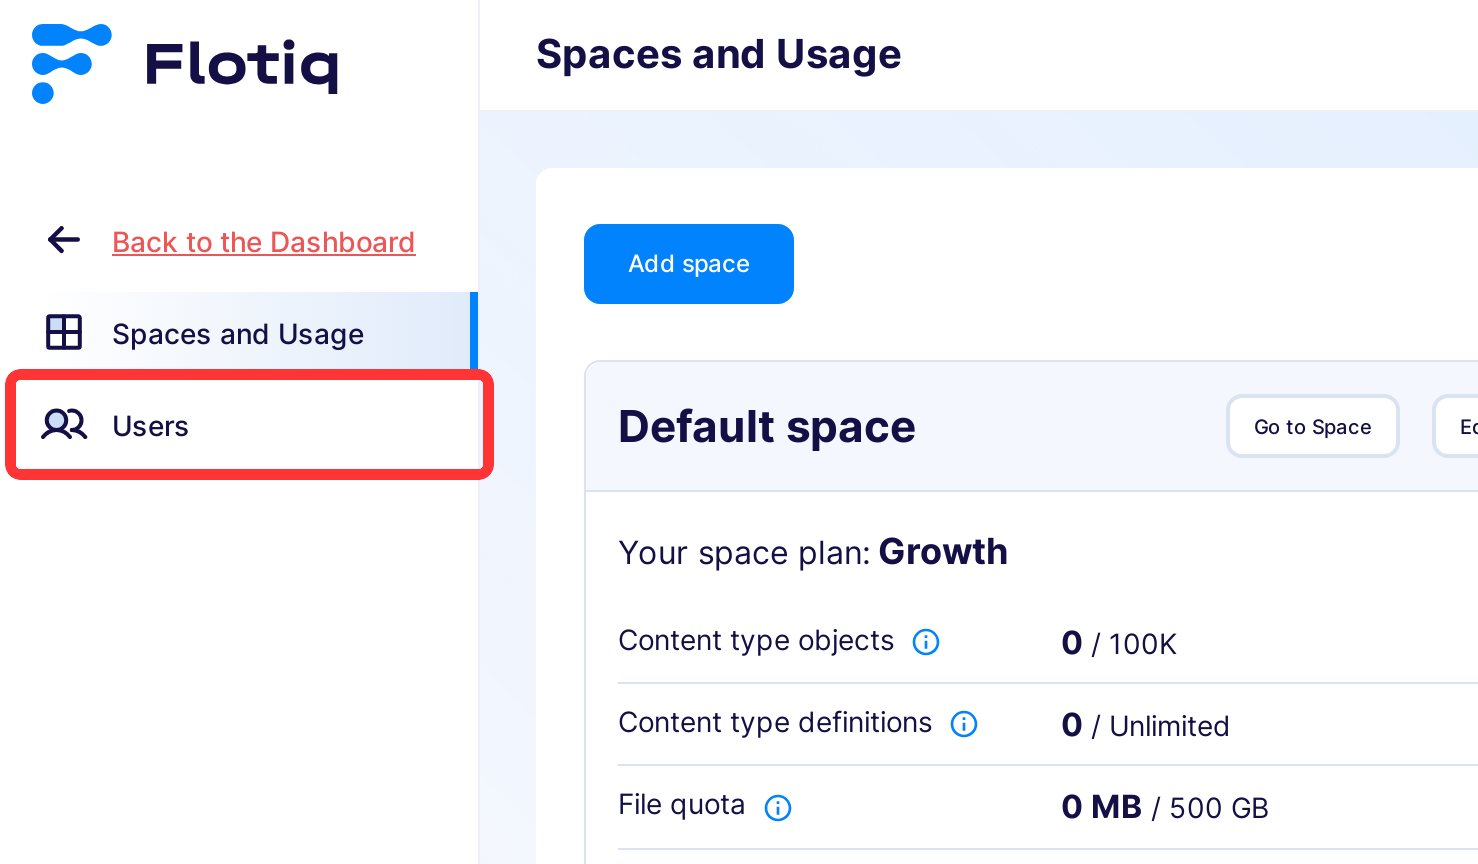
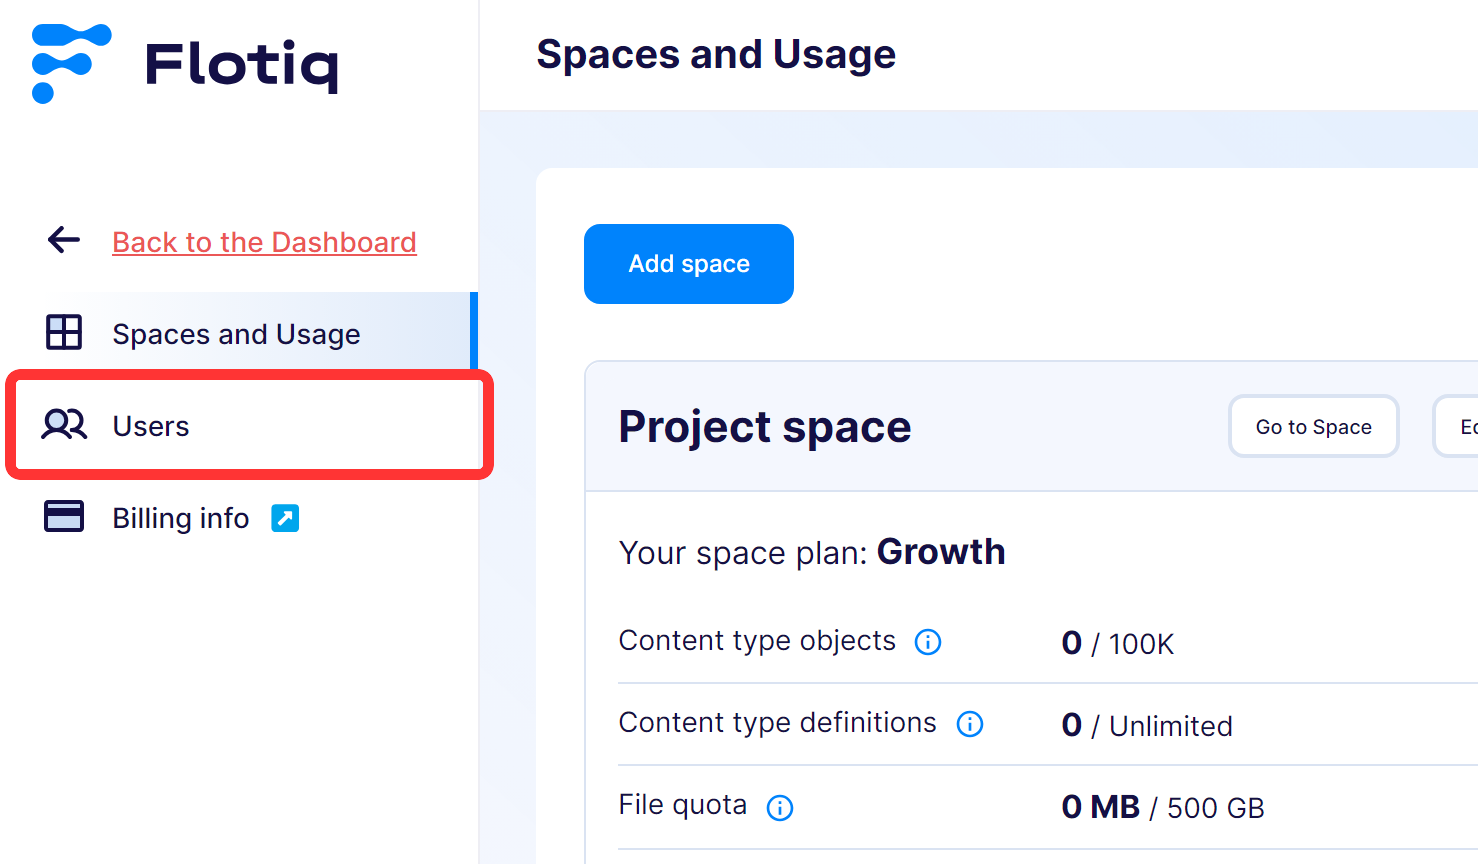
#25298 managing invoices

diff --git a/docs/panel/spaces.md b/docs/panel/spaces.md
@@ -114,3 +114,11 @@ If a user is assigned to a Space, there are ways to manage their access to space
 To display the user list, navigate to the `Users` tab in the Organization management view.
 
 ![Users in Organization](images/UserList.png){: .border}
+
+## Managing subscriptions
+
+After each billing cycle an invoice is generated and available for download for Administrators.
+
+To manage subscriptions or download invoices go to organization settings and open `Billing info` page.
+
+![Billing info](images/BillingInfo.png){: .border}
